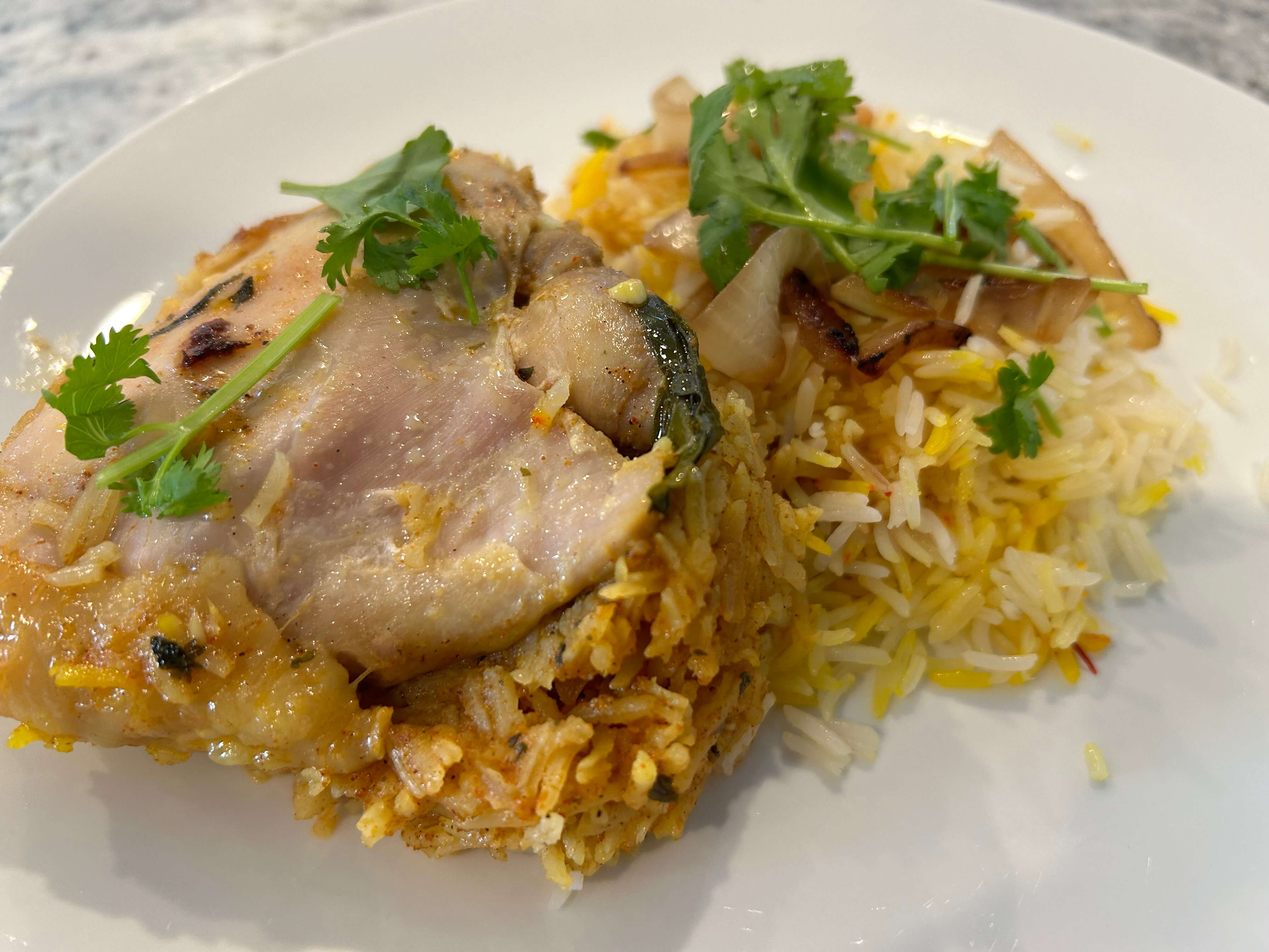
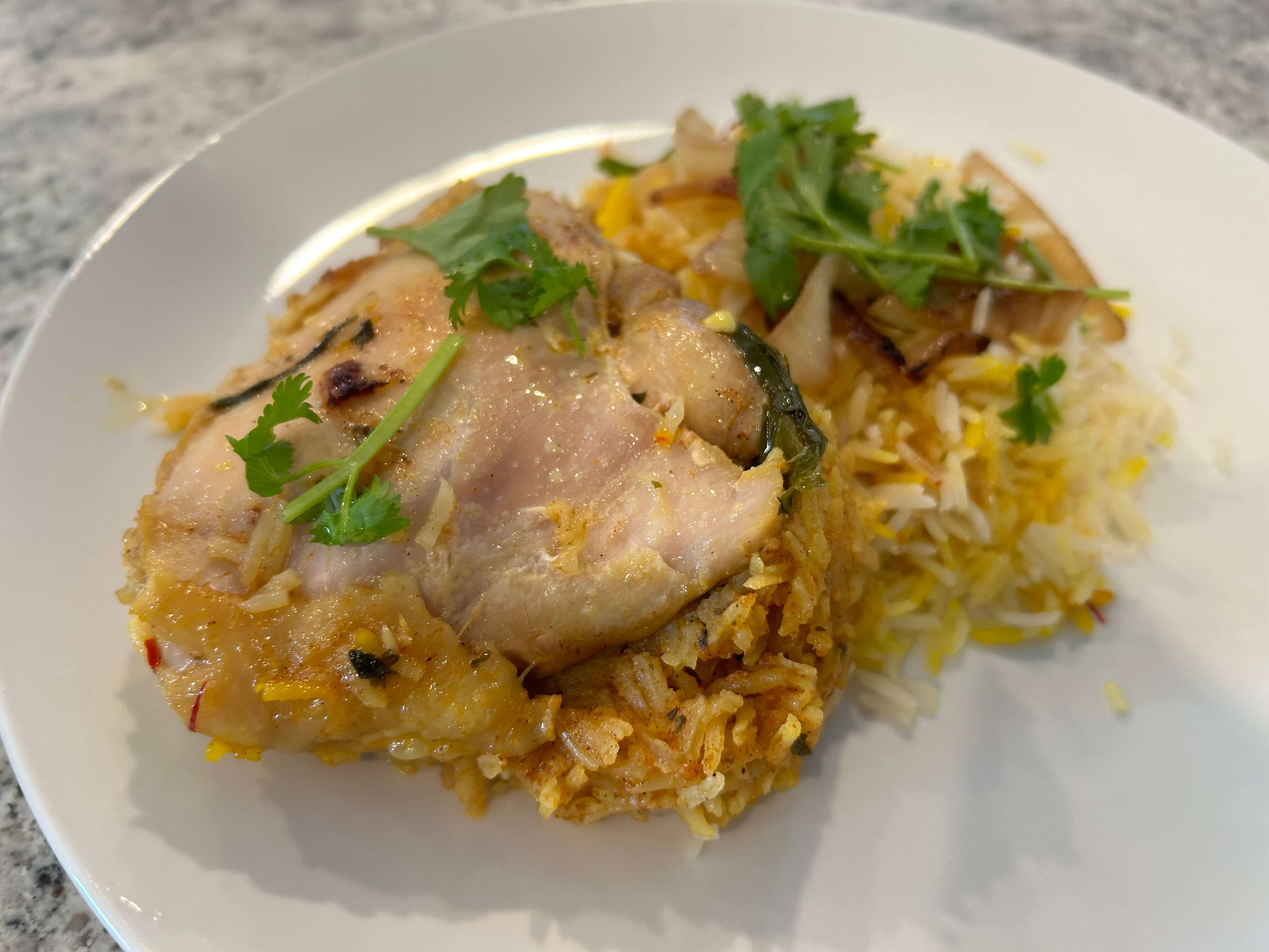
reduce chicken biryani images

diff --git a/server/data/recipes/chicken-biryani.js b/server/data/recipes/chicken-biryani.js
@@ -16,7 +16,6 @@ const biryani15 = '../assets/Products/chicken-biryani-15.jpeg';
 const biryani16 = '../assets/Products/chicken-biryani-16.jpeg';
 const biryani17 = '../assets/Products/chicken-biryani-17.jpeg';
 const biryani18 = '../assets/Products/chicken-biryani-18.jpeg';
-const biryani19 = '../assets/Products/chicken-biryani-19.jpeg';
 
 const { CATEGORIES, GENRES, INGREDIENT_UNITS, METHODS, PROTEIN, REHEAT_METHODS, SECTIONS, STORAGE_CONTAINER, STORAGE_DURATION_UNIT, STORAGE_LOCATION, TIME_UNITS, TYPES, YIELD_UNITS } = require('./constants');
 const { BASMATI_RICE, BAY_LEAF, CARDAMOM, CARDAMOM_PODS, CAYENNE_PEPPER, CHICKEN_THIGH, CILANTRO, CINNAMON, CLOVES, CORIANDER, CUMIN, GARAM_MASALA, GARLIC, GHEE, GINGER, LARGE_POT, PAPER_TOWELS, PAPRIKA, PLATE, POT, SAFFRON_THREADS, SALT, SAUCEPAN, SMALL_BOWL, STAR_ANISE, STOVE, TURMERIC, VEGETABLE_OIL, WATER, YELLOW_ONION, YOGURT } = require('./ingredients');
@@ -31,7 +30,7 @@ const COOK_BIRYANI = 'Cook Biryani';
 module.exports = {
     cardName: 'Chicken Biryani',
     name: 'Chicken Biryani',
-    img: biryani19,
+    img: biryani18,
     available: true,
     recommended: true,
     category: [CATEGORIES.LUNCH, CATEGORIES.DINNER],
@@ -128,7 +127,7 @@ module.exports = {
         { step: `Once you see steam, turn down the heat to low and cook for 25 minutes.`, section: COOK_BIRYANI },
         { step: `Remove from heat and let it rest for 10 minutes with the lid on.`, section: COOK_BIRYANI },
 
-        { step: `Serve this authentic chicken rice dish with cilantro, yogurt, and sauteed onions.`, section: SECTIONS.SERVE, img: biryani18 },
+        { step: `Serve this authentic chicken rice dish with cilantro, yogurt, and sauteed onions.`, section: SECTIONS.SERVE },
     ],
     store: [
         {
